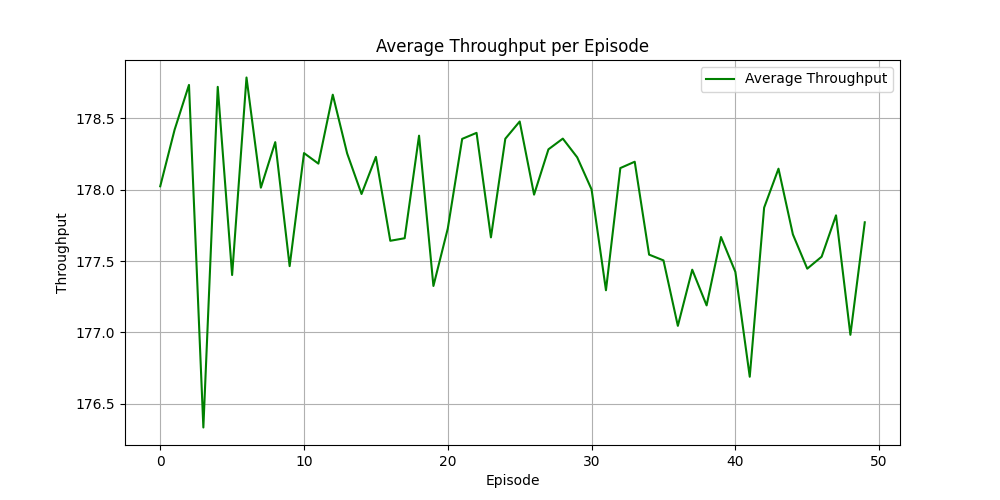
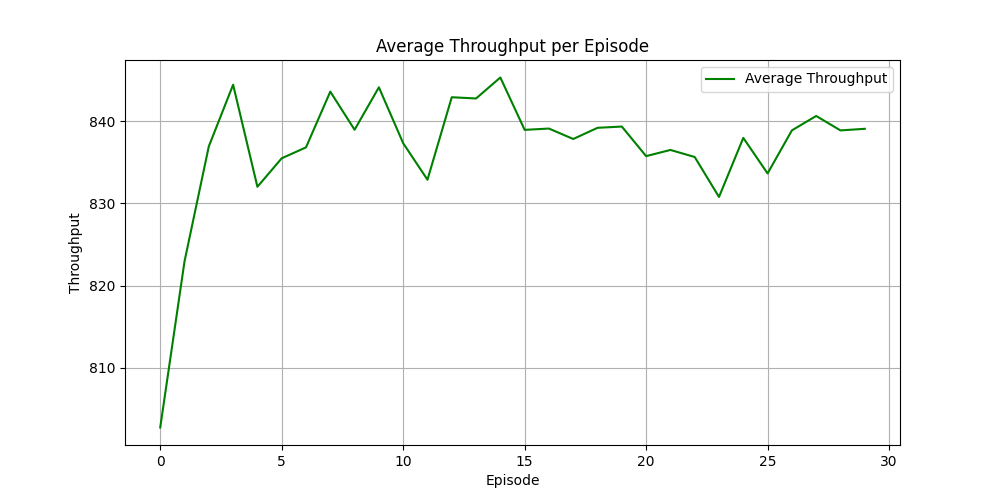
integrated dqn improvements

diff --git a/examples/our_rl/dqn/dqn.py b/examples/our_rl/dqn/dqn.py
@@ -19,7 +19,8 @@ class DQNAgent:
         self.cw_max = cw_max
 
         self.memory = deque(maxlen=2000)
-        self.gamma = 0.95
+        self.alpha = 0.7
+        self.gamma = 0.6
         self.epsilon = 1.0
         self.epsilon_min = 0.01
         self.epsilon_decay = 0.8
@@ -34,7 +35,11 @@ class DQNAgent:
         model = tf.keras.Sequential()
         model.add(layers.Dense(64, input_dim=self.state_size, activation='relu'))
         model.add(layers.Dense(64, activation='relu'))
-        model.add(layers.Dense(self.action_size, activation='linear'))  # dla CW każdego węzła
+        model.add(layers.Dense(64, activation='relu'))
+        model.add(layers.Dense(64, activation='relu'))
+        model.add(layers.Dense(64, activation='relu'))
+        model.add(layers.Dense(64, activation='relu'))
+        model.add(layers.Dense(1, activation='linear'))  # dla CW każdego węzła
         model.compile(loss='mse', optimizer=tf.keras.optimizers.Adam(learning_rate=self.learning_rate))
         return model
 
@@ -43,12 +48,12 @@ class DQNAgent:
 
     def act(self, state):
         if np.random.rand() <= self.epsilon:
-            return [np.random.randint(self.cw_min, self.cw_max+1)]
-        q = self.model.predict(np.array([state]), verbose=0)[0]
-        return np.clip(np.round(q), self.cw_min, self.cw_max).astype(int)
+            return np.random.randint(self.cw_min, self.cw_max+1)
+        q_values = self.model.predict(np.array([state]), verbose=0)[0]
+        return np.clip(np.round(q_values), self.cw_min, self.cw_max).astype(int)[0]
 
     def remember(self, state, action, reward, next_state, done):
-        self.memory.append((state, action, reward, next_state, done))
+        self.memory.append((state, action, reward-action*self.alpha, next_state, done))
 
     def replay(self):
         if len(self.memory) < self.batch_size:
@@ -62,7 +67,7 @@ class DQNAgent:
             else:
                 t = self.target_model.predict(np.array([next_state]), verbose=0)[0]
                 target = reward + self.gamma * t
-            self.model.fit(np.array([state]), np.array([target]), epochs=1, verbose=0)
+            self.model.fit(np.array([state]), np.array([target]), epochs=5, verbose=0)
 
         if self.epsilon > self.epsilon_min:
             self.epsilon *= self.epsilon_decay
@@ -95,7 +100,7 @@ state_size = 2  # collision_prob i log2_queued_packets
 action_size = 1
 
 agent = DQNAgent(state_size, action_size)
-episodes = 10
+episodes = 30
 episode_rewards = []
 episode_cws = []
 episode_throughputs = []
@@ -120,7 +125,8 @@ for e in range(episodes):
 
     while not done:
         action = agent.act(state)
-        next_raw_state, reward, done, _ = env.step(action[0])
+        print(action)
+        next_raw_state, reward, done, _ = env.step(action)
 
         collision_prob =  next_raw_state & 255
         log2_queued = next_raw_state >> 8
